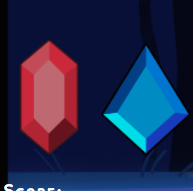
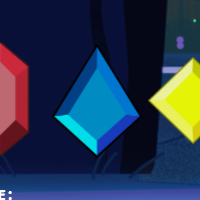
more project section updating - added burger and github

diff --git a/index.html b/index.html
@@ -34,12 +34,11 @@
                 <br><br>
                 <h1 class="header center text-lighten-2">JUSTIN GUDANI</h1>
                 <div class="row center">
-                    <h5 class="header col s12 light">Web Developer</h5>
+                    <h4 class="header col s12 light">Web Developer</h4>
                 </div>
                 <div class="row center">
                     <!-- <a href="http://materializecss.com/getting-started.html" id="download-button" class="btn-large waves-effect waves-light led-color lighten-1">Get Started</a> -->
                 </div>
-                <br><br>
 
             </div>
         </div>
@@ -83,17 +82,20 @@
         </div>
     </div>
 
-    <div class="container">
-        <div class="section">
+    <div id="project-div" class="section">
+        <div class="container">
+            <div class="col s12 center grey-text text-lighten-4">
+                <h4>Project Showcase</h4>
+            </div>
             <!-- Project showcase section -->
             <div class="row">
                 <div class="col s12 m3">
                     <div class="card small">
                         <div class="card-image waves-effect waves-block waves-light">
-                            <img class="activator" alt="preview" src="assets/img/hmssb.png">
+                            <img class="activator" alt="preview" src="assets/img/ssb64.png">
                         </div>
                         <div class="card-content">
-                            <span class="card-title activator grey-text text-darken-4">Smash Bros. Hangman!<i class="material-icons right">more_vert</i></span>
+                            <span class="card-title activator grey-text text-darken-4">Hangman!<i class="material-icons right">more_vert</i></span>
                         </div>
                         <div class="card-reveal">
                             <span class="card-title grey-text text-darken-4">Description<i class="material-icons right">close</i></span>
@@ -105,7 +107,6 @@
                                     <li>Bootstrap</li>
                                 </ul>
                             </p>
-                            </br>
                             <hr>
                             <p><a href="https://ohaikthxbai.github.io/Hangman-Game/" target="_blank">Click to play!</a></p>
                         </div>
@@ -130,7 +131,6 @@
                                     <li>Bootstrap</li>
                                 </ul>
                             </p>
-                            </br>
                             <hr>
                             <p><a href="https://ohaikthxbai.github.io/week-4-game/" target="_blank">Click to play!</a></p>
                         </div>
@@ -140,14 +140,24 @@
                 <div class="col s12 m3">
                     <div class="card small">
                         <div class="card-image waves-effect waves-block waves-ligth">
-                            <img src="assets/img/proj.jpg" alt="preview" class="activator">
+                            <img src="assets/img/burger.png" alt="preview" class="activator">
                         </div>
                         <div class="card-content">
-                            <span class="card-title activator grey-text text-darken-4">GIFtastic!<i class="material-icons right">more_vert</i></span>
+                            <span class="card-title activator grey-text text-darken-4">Eat Da Burger<i class="material-icons right">more_vert</i></span>
                         </div>
                         <div class="card-reveal">
                             <span class="card-title grey-text text-darken-4">Description<i class="material-icons right">close</i></span>
-                            <p>Here is some more information about this product that is only revealed once clicked on.</p>
+                            <p>
+                                <ul>Burger Entry/Eating</br>
+                                    </br>
+                                    <li>Deployed in Heroku</li>
+                                    <li>Bootstrap</li>
+                                    <li>Node.JS</li>
+                                    <li>MySQL</li>
+                                </ul>
+                            </p>
+                            <hr>
+                            <p><a href="https://hidden-eyrie-84273.herokuapp.com/" target="_blank">Click to open</a></p>
                         </div>
                     </div>
                 </div>
@@ -155,21 +165,25 @@
                 <div class="col s12 m3">
                     <div class="card small">
                         <div class="card-image waves-effect waves-block waves-ligth">
-                            <img src="assets/img/proj.jpg" alt="preview" class="activator">
+                            <img src="assets/img/git.png" alt="preview" class="activator">
                         </div>
                         <div class="card-content">
                             <span class="card-title activator grey-text text-darken-4">See More<i class="material-icons right">more_vert</i></span>
                         </div>
                         <div class="card-reveal">
                             <span class="card-title grey-text text-darken-4">Github Profile<i class="material-icons right">close</i></span>
-                            <p>Here is some more information about this product that is only revealed once clicked on.</p>
+                            <p>View more of my other projects below!</p>
+                        </br>
+                    </br>
+                </br>
+                            <p><a href="https://github.com/ohaikthxbai" target="_blank">Visit</a></p>
                         </div>
                     </div>
                 </div>
             </div>
         </div>
     </div>
-    
+
     <div class="container">
         <div class="section">
             <!-- Contact Section -->

diff --git a/assets/css/style.css b/assets/css/style.css
@@ -16,8 +16,12 @@ nav .brand-logo {
   background-color: #3f507e;
 }
 
+#project-div {
+  background-color: #737aa6;
+}
+
 .card.small {
-  border: solid #3f507e 1px;
+  border: solid #737aa6 1px;
 }
 
 .txt-color {
